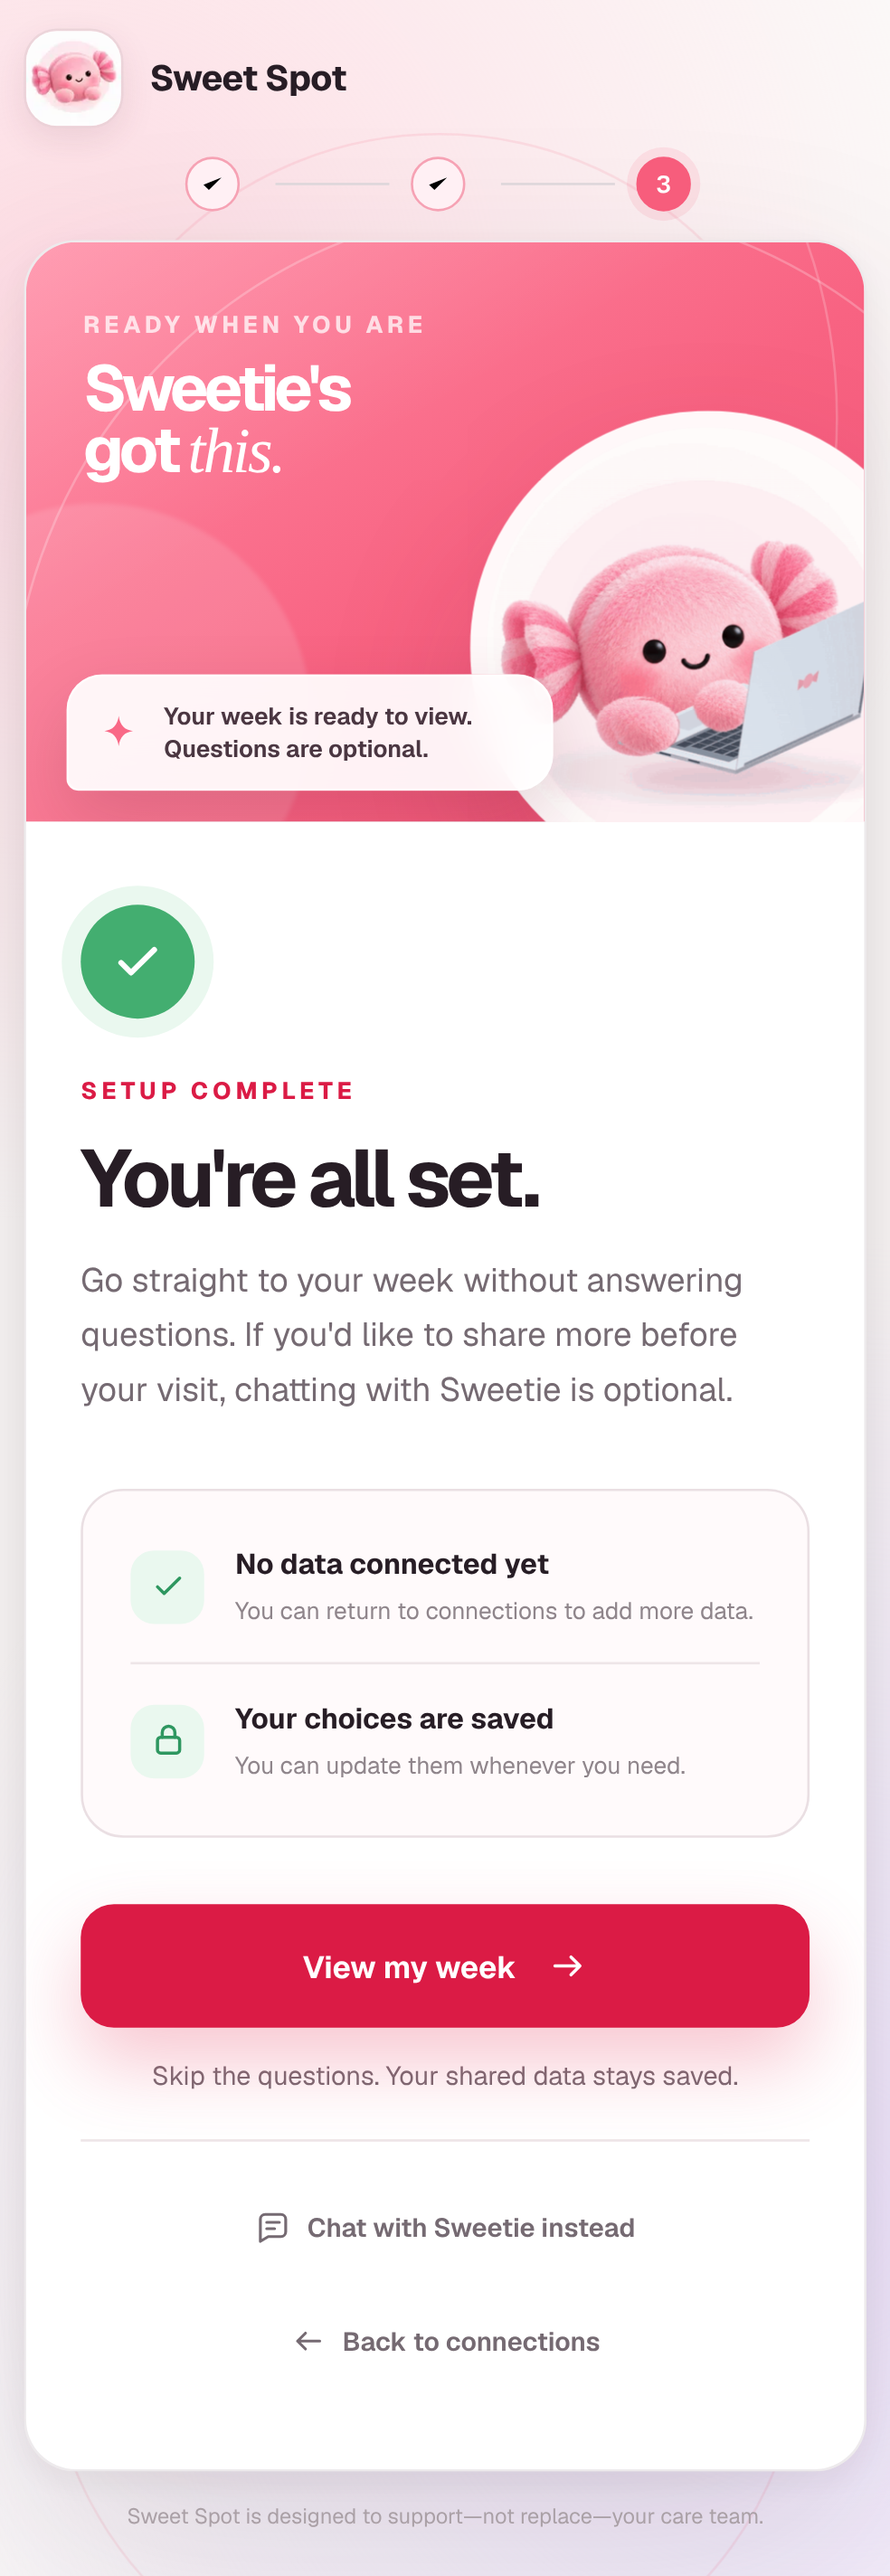
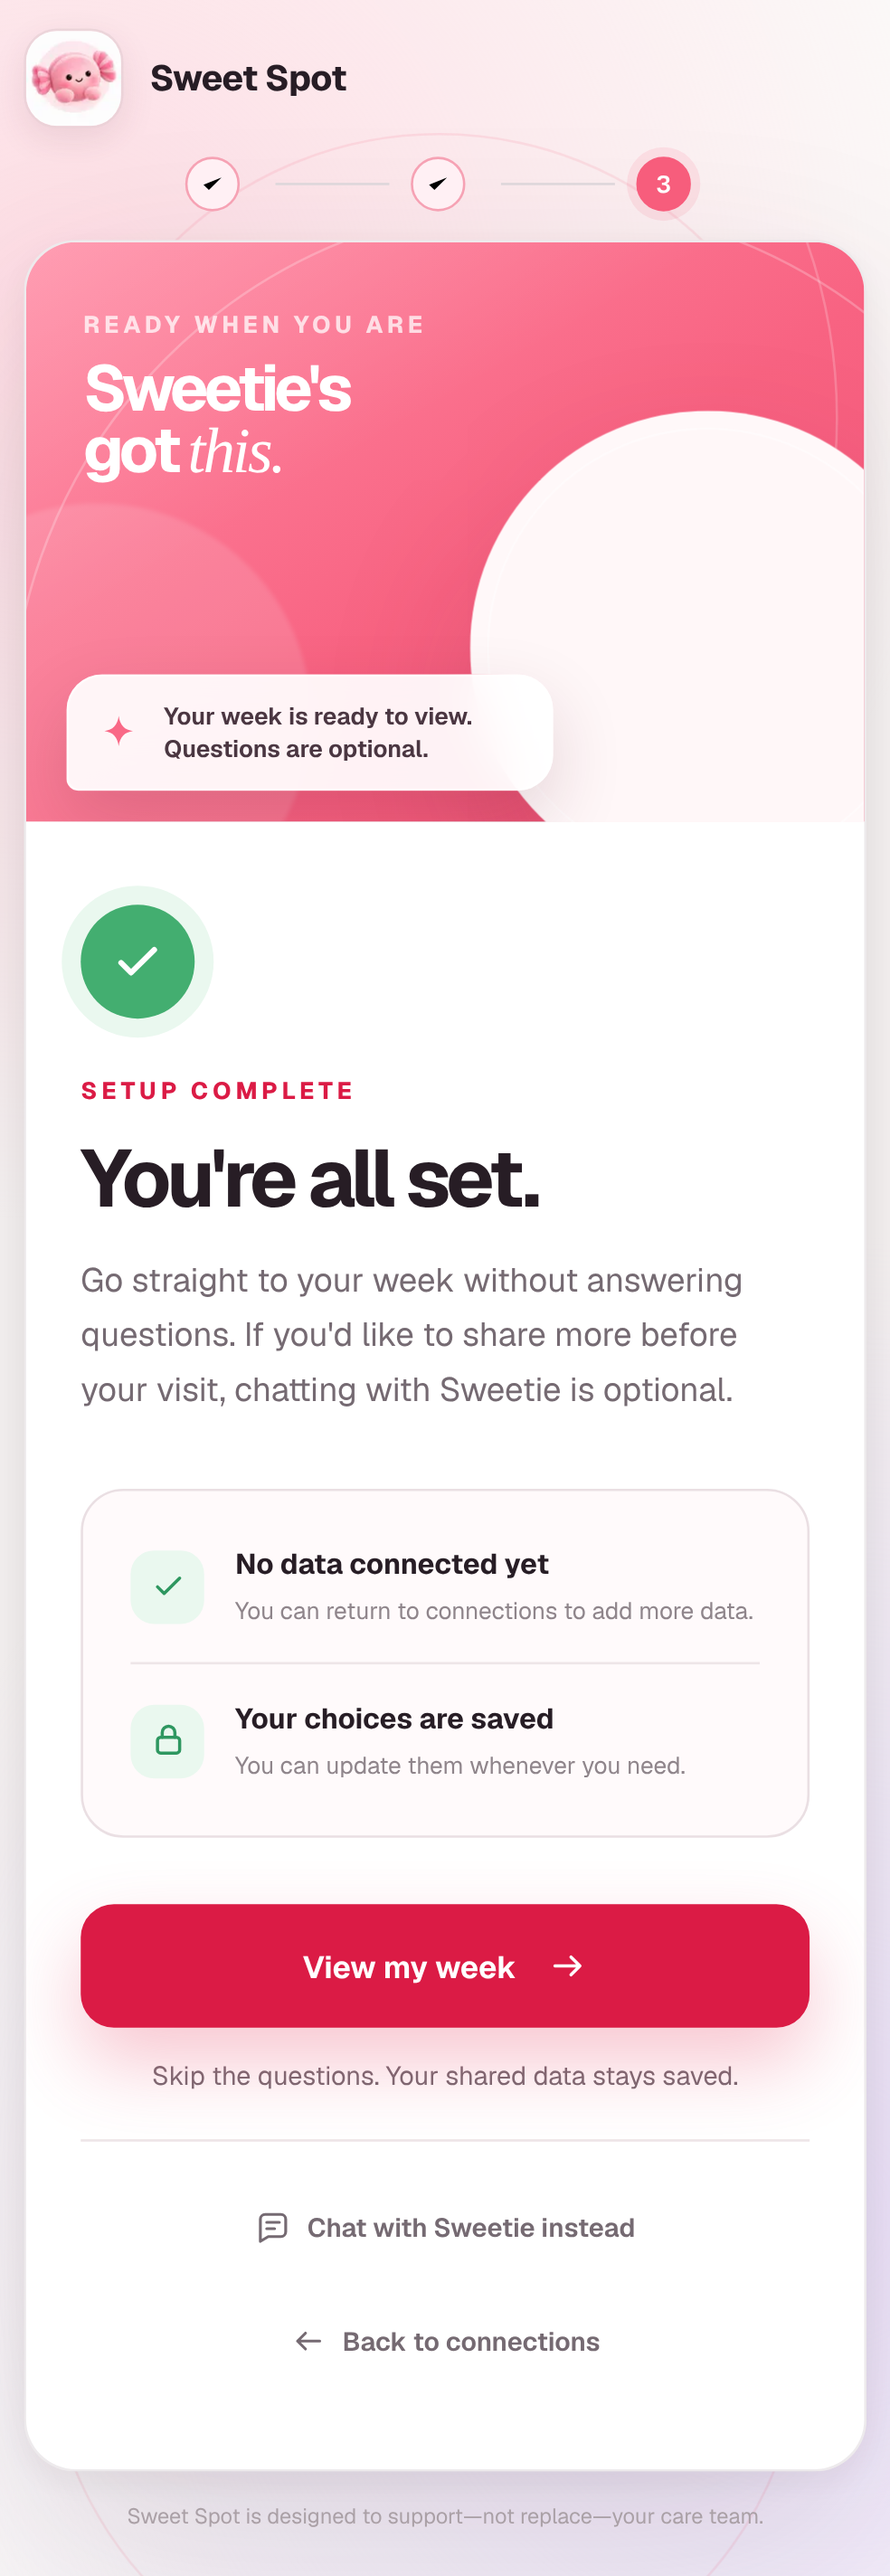
Wrap Sweetie's stepper instead of scrolling it (design §6.5)
CI caught what the sandbox did not: the bar measures 367px inside 359px on
the runner, where the sandbox had it fitting by a hair. A couple of pixels
of font metrics is the wrong thing for this to turn on, and the case the
margin was never going to survive is a flagged visit, which adds a fourth
pill whose label is a phrase.

So the fix is structural rather than a few pixels back. The bar wraps
instead of scrolling, which makes every step visible for whatever
fieldsFor() produces — `overflow-x: auto` meant the steps that did not fit
were simply not seen, with the bar sitting still so nothing hinted there was
more of it. And below 430px every step but the one being asked about shows
just its number: the tick and the number say where the patient is, the
current step says what it wants, and a flagged pill keeps its words because
it is the one piece of news on the bar. The labels are hidden from the eye,
not from a screen reader, which still reads every step's name — which is why
the label moved into a span of its own.

Four pills now sit on one row at 375px with room to spare. The spec drives
the flagged case too, and holds the bar to two rows, so "fits" cannot
quietly become a stack down the screen.

Claude-Session: https://claude.ai/code/session_017uyVrjTxrsZZAmbw8XDCdj

Changed region(s): [[0.5488, 0.1875, 0.9756, 0.3125]]

diff --git a/app/globals.css b/app/globals.css
@@ -5494,9 +5494,15 @@ button.sweetie-agent-badge {
     padding: 8px 14px;
   }
 
+  /* The stepper wraps instead of scrolling (design §6.5, T23). `overflow-x: auto` meant the steps that did
+     not fit were simply not seen — the bar sits still, so nothing on the page hints that there is more of
+     it — and a flagged visit adds a fourth, long pill that pushed it over on any phone. Wrapped, every step
+     is on screen whatever the field list holds. */
   .sweetie-field-progress {
     min-height: 36px;
     padding: 6px 14px;
+    flex-wrap: wrap;
+    overflow-x: visible;
   }
 
   .sweetie-messages {
@@ -5831,6 +5837,24 @@ button.sweetie-agent-badge {
     overflow: hidden;
     font-size: 11px;
     text-overflow: ellipsis;
+    white-space: nowrap;
+  }
+
+  /* Three pills with their labels measure 367px inside 359px here — and that is the short case, before a
+     flagged visit adds a fourth. Wrapping (above) keeps them all on screen, and taking the label off every
+     step but the one being asked about keeps them on one line: the number and the tick say where the
+     patient is, and the current step says what it wants. Hidden from the eye, not from a screen reader,
+     which still reads every step's name. */
+  .sweetie-field-progress > li:not(.sweetie-field-current):not(.sweetie-field-flagged) {
+    gap: 0;
+  }
+
+  .sweetie-field-progress > li:not(.sweetie-field-current):not(.sweetie-field-flagged) > .sweetie-field-label {
+    position: absolute;
+    overflow: hidden;
+    width: 1px;
+    height: 1px;
+    clip-path: inset(50%);
     white-space: nowrap;
   }
 }

diff --git a/e2e/mobile.spec.ts b/e2e/mobile.spec.ts
@@ -104,6 +104,17 @@ test("Sweetie fits a 375px phone, and her stepper fits without scrolling", async
   await expect(page.locator(".sweetie-field-done, .sweetie-field-current")).not.toHaveCount(0, LOADED);
   await expectMobileReady(page, "Sweetie mid-conversation", ".sweetie-field-progress");
   await shot(page, "375-sweetie-answered");
+
+  // The widest the bar ever gets: a red flag adds a fourth pill whose label is a phrase, on top of the
+  // three steps fieldsFor() always produces (lib/sweetie.ts). The stepper wraps rather than scrolls now,
+  // so "fits" is about staying a bar: two rows of pills at most, not a stack down the screen.
+  await reply.fill("I had chest pain yesterday evening and it scared me.");
+  await reply.press("Enter");
+  await expect(page.locator(".sweetie-field-flagged")).toBeVisible(LOADED);
+  await expectMobileReady(page, "Sweetie with a flagged answer", ".sweetie-field-progress");
+  const bar = await page.locator(".sweetie-field-progress").evaluate((element) => element.getBoundingClientRect().height);
+  expect(bar, "the stepper has become a stack rather than a bar (design §6.5)").toBeLessThanOrEqual(80);
+  await shot(page, "375-sweetie-flagged");
 });
 
 test("the connect-your-data screen fits a 375px phone on every step", async ({ page }) => {

diff --git a/app/s/[token]/page.tsx b/app/s/[token]/page.tsx
@@ -720,7 +720,9 @@ function Progress({
             aria-current={current ? "step" : undefined}
           >
             <b>{step.done ? "✓" : index + 1}</b>
-            {step.label}
+            {/* In its own element so the phone layout can take it out of the flow without taking it away
+                from a screen reader (globals.css, T23). */}
+            <span className="sweetie-field-label">{step.label}</span>
           </li>
         );
       })}
